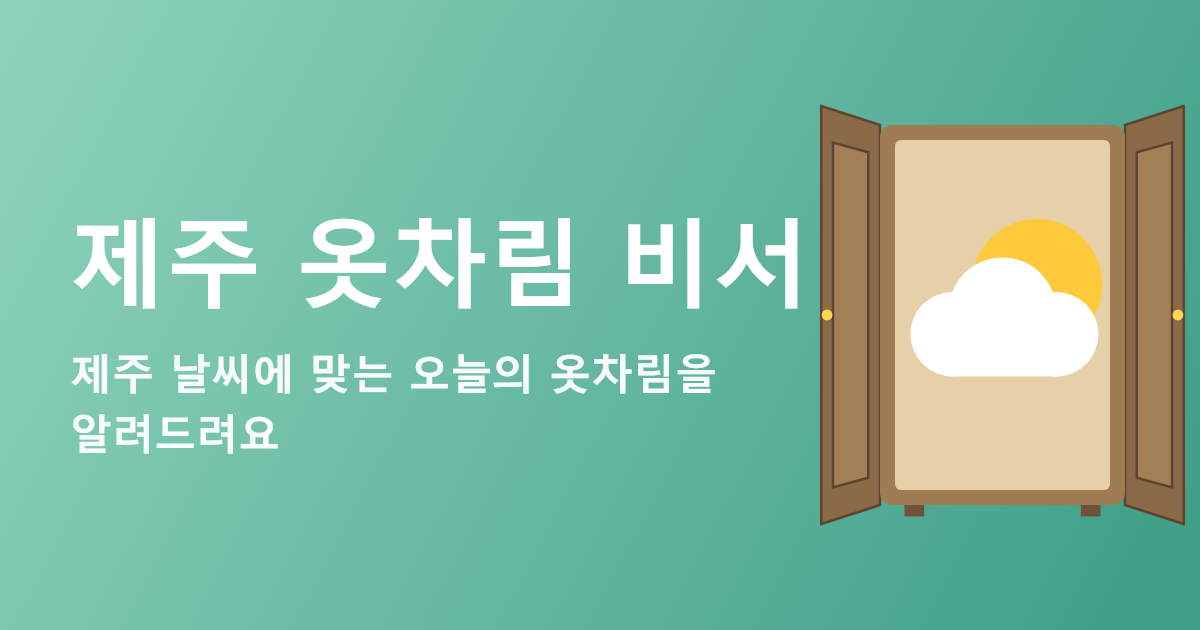
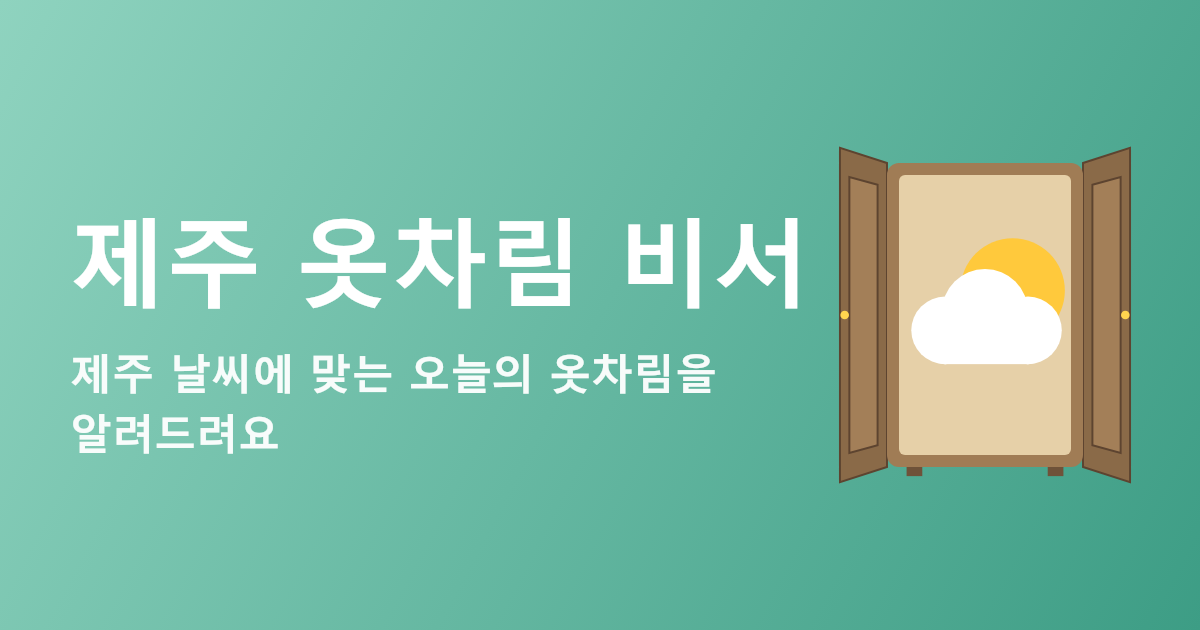
Balance OG image margins and bump cache version

Changed region(s): [[0.6783, 0.1508, 0.9867, 0.8444]]

diff --git a/index.html b/index.html
@@ -10,7 +10,7 @@
     <meta property="og:type" content="website" />
     <meta property="og:title" content="제주 옷차림 비서" />
     <meta property="og:description" content="제주 날씨에 맞는 오늘의 옷차림을 알려드려요" />
-    <meta property="og:image" content="https://weather-clothes-eosin.vercel.app/images/og.png?v=2" />
+    <meta property="og:image" content="https://weather-clothes-eosin.vercel.app/images/og.png?v=3" />
     <meta property="og:url" content="https://weather-clothes-eosin.vercel.app/" />
     <link rel="apple-touch-icon" href="/images/icon-180.png" />
     <link rel="manifest" href="/manifest.webmanifest" />
